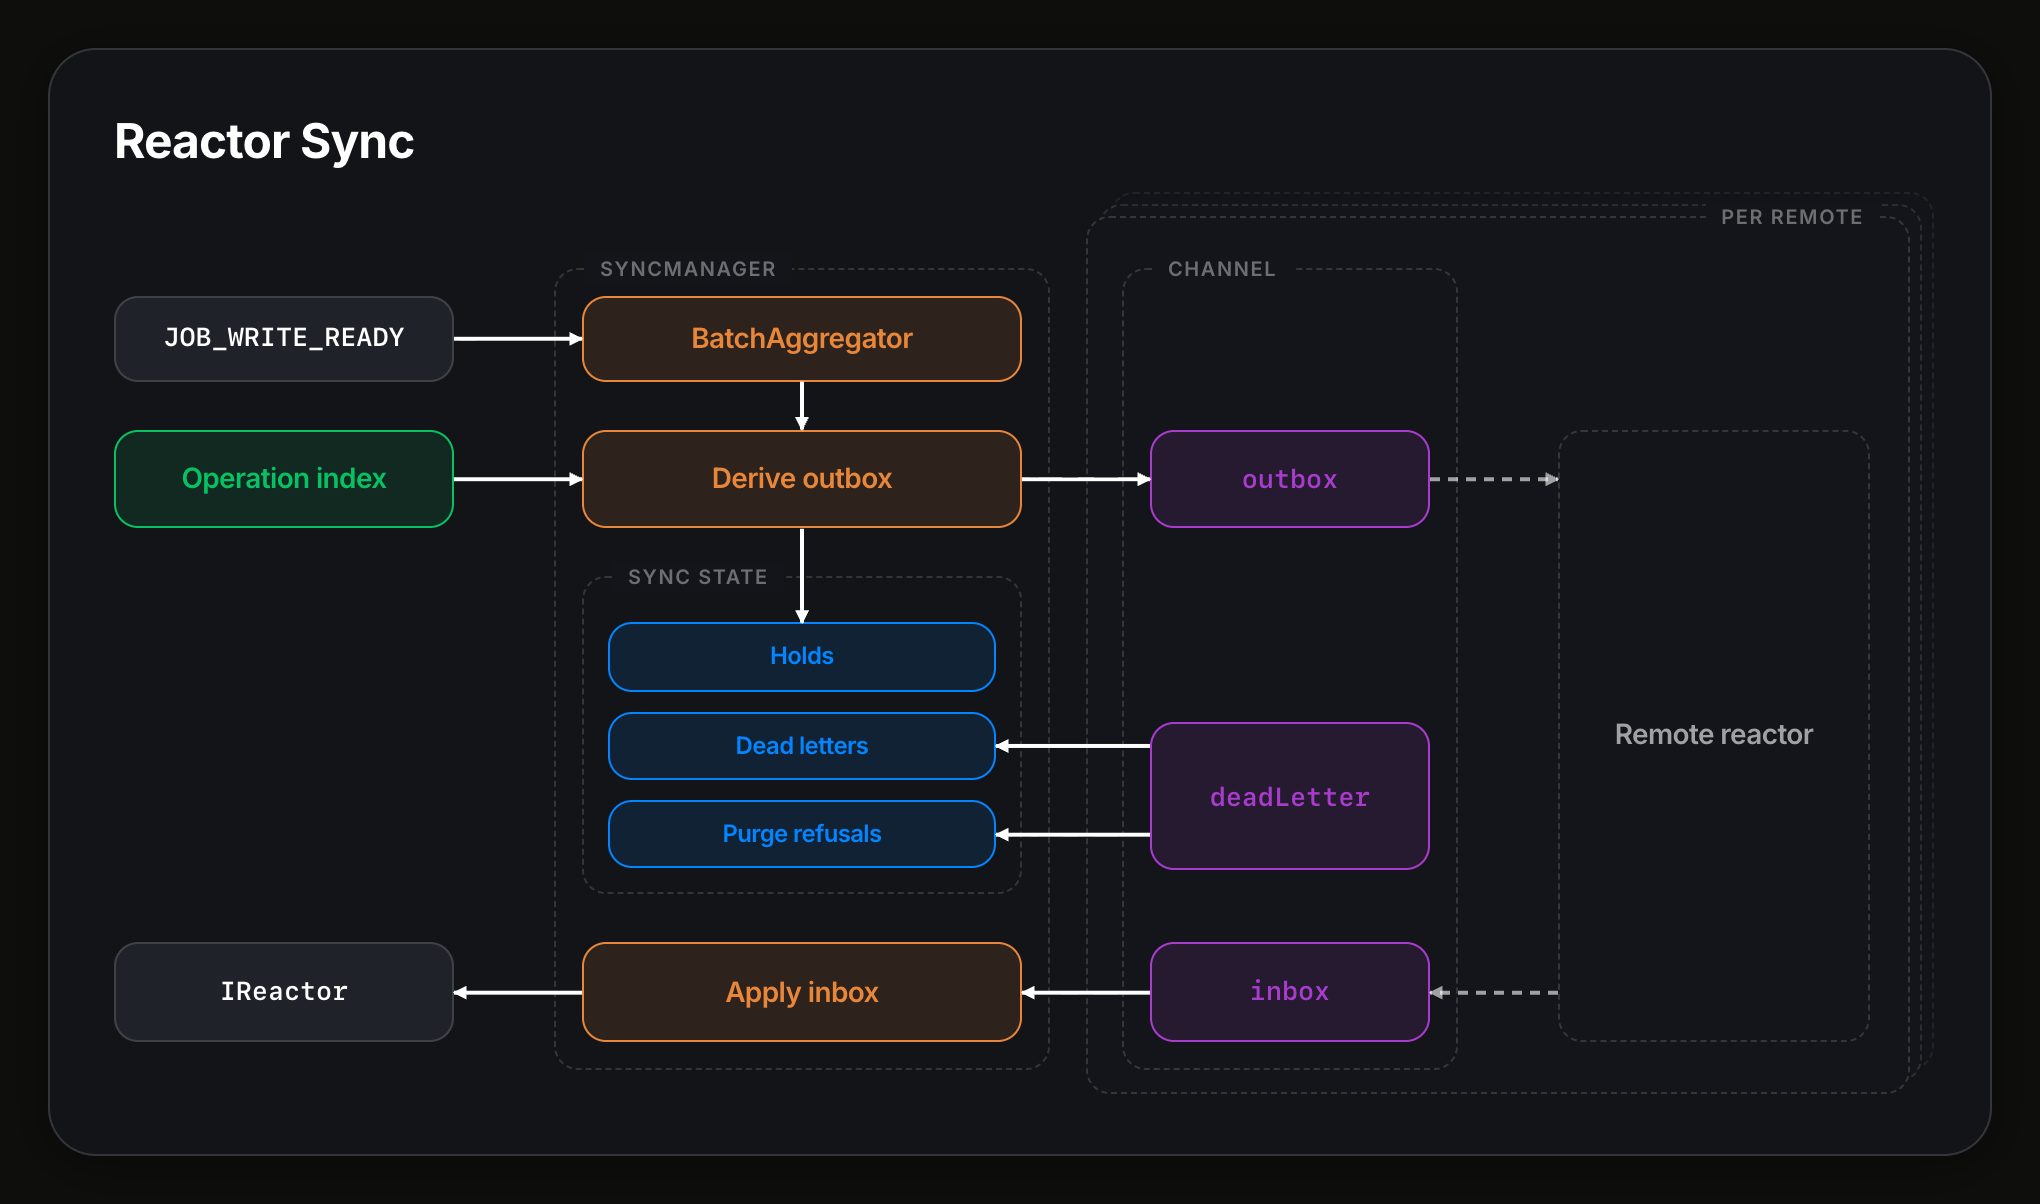
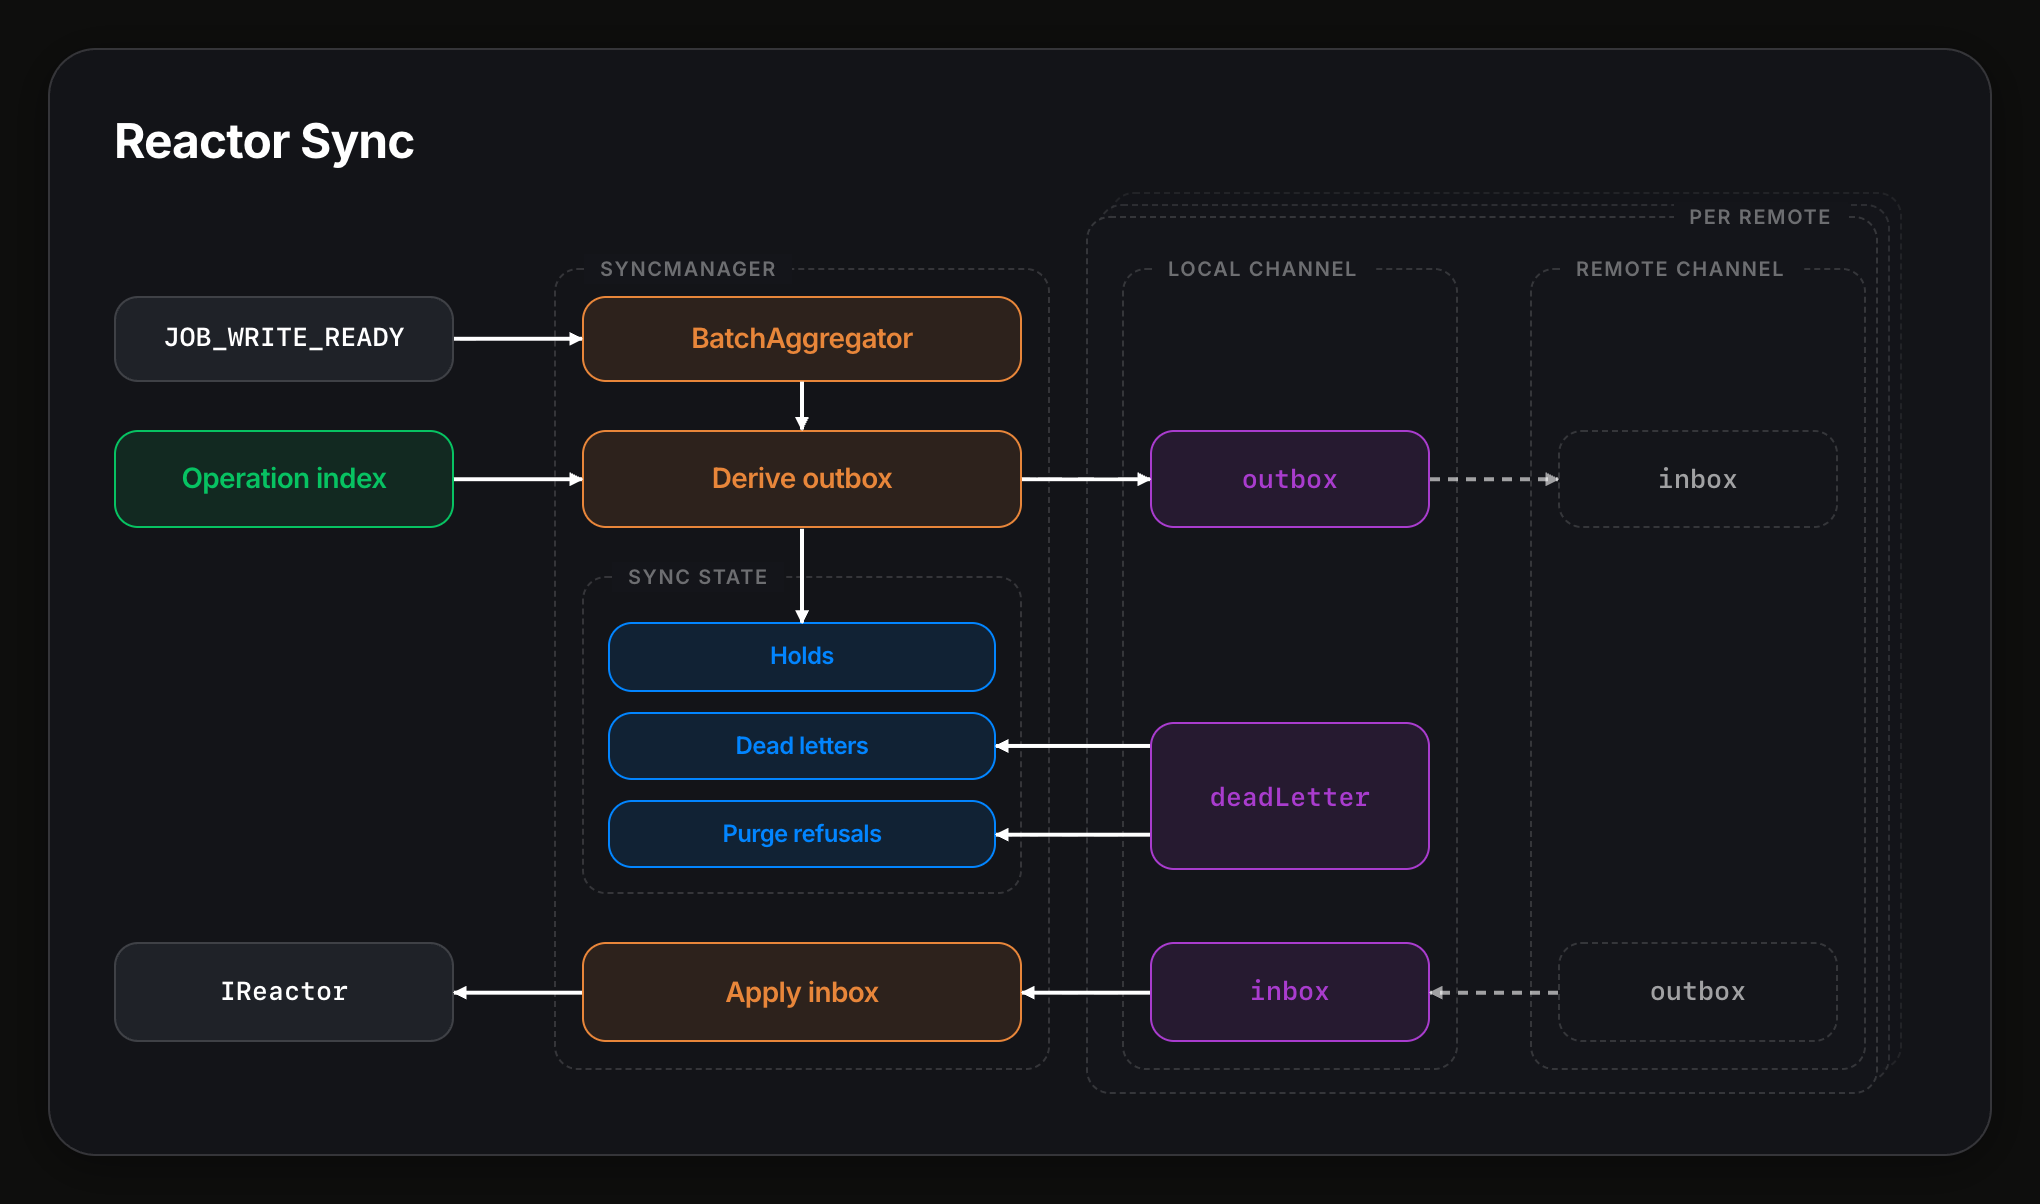
reactor sync: local channel paired with the remote channel
Inside the per-remote frame the local channel's outbox now feeds the
remote channel's inbox and the remote outbox feeds the local inbox,
matching gql push/poll and the symmetric LocalChannel. The remote side
shows only its two mailboxes, in the external style.

diff --git a/pages/reactor-sync.html b/pages/reactor-sync.html
@@ -137,7 +137,7 @@
     .diagram {
       position: relative;
       display: grid;
-      grid-template-columns: 170px 220px 140px 1fr;
+      grid-template-columns: 170px 220px 140px 140px;
       column-gap: 64px;
       row-gap: 24px;
       margin-top: 30px;
@@ -189,7 +189,12 @@
     load ...................... sync-manager.ts:2863 reactor.load, :3064 reactor.loadBatch
     IReactor .................. core/types.ts:138; core/reactor.ts:717 load, :873 loadBatch
     outbox · inbox · deadLetter sync/interfaces.ts:37-102; sync/mailbox.ts:75
-    send / receive ............ channels/gql-req-channel.ts:1382 (pushSyncEnvelopes), :1022 (pollSyncEnvelopes); channels/local-channel.ts:73
+    local outbox → remote inbox  GQL: our request channel pushes its outbox (channels/gql-req-channel.ts:268, :1382 pushSyncEnvelopes);
+                                the remote's resolver adds it to that remote's GqlResponseChannel inbox
+                                (reactor-api/src/graphql/reactor/resolvers.ts:2214, :2266; channels/gql-res-channel.ts:17-23)
+    remote outbox → local inbox  GQL: we poll the remote's outbox (gql-req-channel.ts:1022 pollSyncEnvelopes; served from
+                                remote.channel.outbox at resolvers.ts:1883, :1905) into our inbox (gql-req-channel.ts:651 inbox.add)
+                                LocalChannel is symmetric: either side pushes, the receiver adds to its inbox (channels/local-channel.ts:60-72, :288, :354)
     Sync state
       Holds ................... sync-manager.ts:966 hold (SYNC_HELD), :1049 releaseSupported (SYNC_RELEASED)
         hold .................. deriveOutbox → gateOutbound (sync-manager.ts:3536) → this.hold for documents the peer's protocol
@@ -200,8 +205,9 @@
         refuse ................ sync-manager.ts:2173-2181: an outbox dead letter typed MARKER_REFUSED (the peer refused our tombstone)
                                 becomes a purge refusal via recordPurgeRefusal (:798). Also from poll reports (:802)
     Per remote [stacked frame]  sync/sync-manager.ts:312 (remotes: Map<string, Remote>); each Remote owns exactly one channel,
-                                so the Channel group and its Remote reactor repeat together as one unit
-    Remote reactor ............ the peer behind that remote's channel
+                                so the local channel and its remote counterpart repeat together as one unit
+    Local channel ............. this reactor's IChannel for the remote (sync/interfaces.ts:37-102)
+    Remote channel ............ the peer reactor's channel for us; only its inbox and outbox take part (no dead letter crosses)
   -->
   <div class="frame">
     <div class="card">
@@ -214,7 +220,7 @@
 
           <div class="frame-col" style="grid-column:2"><span class="group-label">SyncManager</span></div>
           <div class="fanout dashed unit" id="unit"><div class="group"><span class="group-label right">Per remote</span></div></div>
-          <div class="frame-col" id="chan-frame" style="grid-column:3"><span class="group-label">Channel</span></div>
+          <div class="frame-col" id="chan-frame" style="grid-column:3"><span class="group-label">Local channel</span></div>
 
           <div class="box" id="ev" style="grid-column:1;grid-row:1"><div class="box-title mono">JOB_WRITE_READY</div></div>
           <div class="box accent-orange" id="agg" style="grid-column:2;grid-row:1"><div class="box-title">BatchAggregator</div></div>
@@ -222,7 +228,9 @@
           <div class="box accent-green" id="oi" style="grid-column:1;grid-row:2"><div class="box-title">Operation index</div></div>
           <div class="box accent-orange" id="derive" style="grid-column:2;grid-row:2"><div class="box-title">Derive outbox</div></div>
           <div class="box mailbox accent-purple" id="outbox" style="grid-column:3;grid-row:2"><div class="box-title mono">outbox</div></div>
-          <div class="box external" id="remote" style="grid-column:4;grid-row:2 / 5"><div class="box-title">Remote reactor</div></div>
+          <div class="frame-col" id="remote-frame" style="grid-column:4"><span class="group-label">Remote channel</span></div>
+          <div class="box mailbox external" id="r-inbox" style="grid-column:4;grid-row:2"><div class="box-title mono">inbox</div></div>
+          <div class="box mailbox external" id="r-outbox" style="grid-column:4;grid-row:4"><div class="box-title mono">outbox</div></div>
 
           <div class="group state-grid" id="state" style="grid-column:2;grid-row:3">
             <span class="group-label">Sync state</span>
@@ -249,7 +257,7 @@
 
     function wires(R) {
       const ev = R('ev'), agg = R('agg'), oi = R('oi'), d = R('derive');
-      const ob = R('outbox'), rm = R('remote'), re = R('reactor'), ap = R('apply');
+      const ob = R('outbox'), ri = R('r-inbox'), ro = R('r-outbox'), re = R('reactor'), ap = R('apply');
       const ib = R('inbox'), dl = R('dead');
       const ho = R('holds'), dls = R('deadletters'), pr = R('refusals');
       return [
@@ -258,8 +266,8 @@
         { cls: 'w-call', pts: [[oi.r, d.cy], [d.l, d.cy]], label: '', seg: 0 },
         { cls: 'w-call', pts: [[d.r, ob.cy], [ob.l, ob.cy]], label: '', seg: 0 },
         { cls: 'w-call', pts: [[d.cx, d.b], [d.cx, ho.t]], label: '', seg: 0, at: 0.22 },
-        { cls: 'w-dash', pts: [[ob.r, ob.cy], [rm.l, ob.cy]], label: '', seg: 0 },
-        { cls: 'w-dash', pts: [[rm.l, ib.cy], [ib.r, ib.cy]], label: '', seg: 0 },
+        { cls: 'w-dash', pts: [[ob.r, ob.cy], [ri.l, ob.cy]], label: '', seg: 0 },
+        { cls: 'w-dash', pts: [[ro.l, ib.cy], [ib.r, ib.cy]], label: '', seg: 0 },
         { cls: 'w-call', pts: [[ib.l, ib.cy], [ap.r, ib.cy]], label: '', seg: 0 },
         { cls: 'w-call', pts: [[ap.l, ap.cy], [re.r, ap.cy]], label: '', seg: 0 },
         { cls: 'w-call', pts: [[dl.l, dls.cy], [dls.r, dls.cy]], label: '', seg: 0 },
